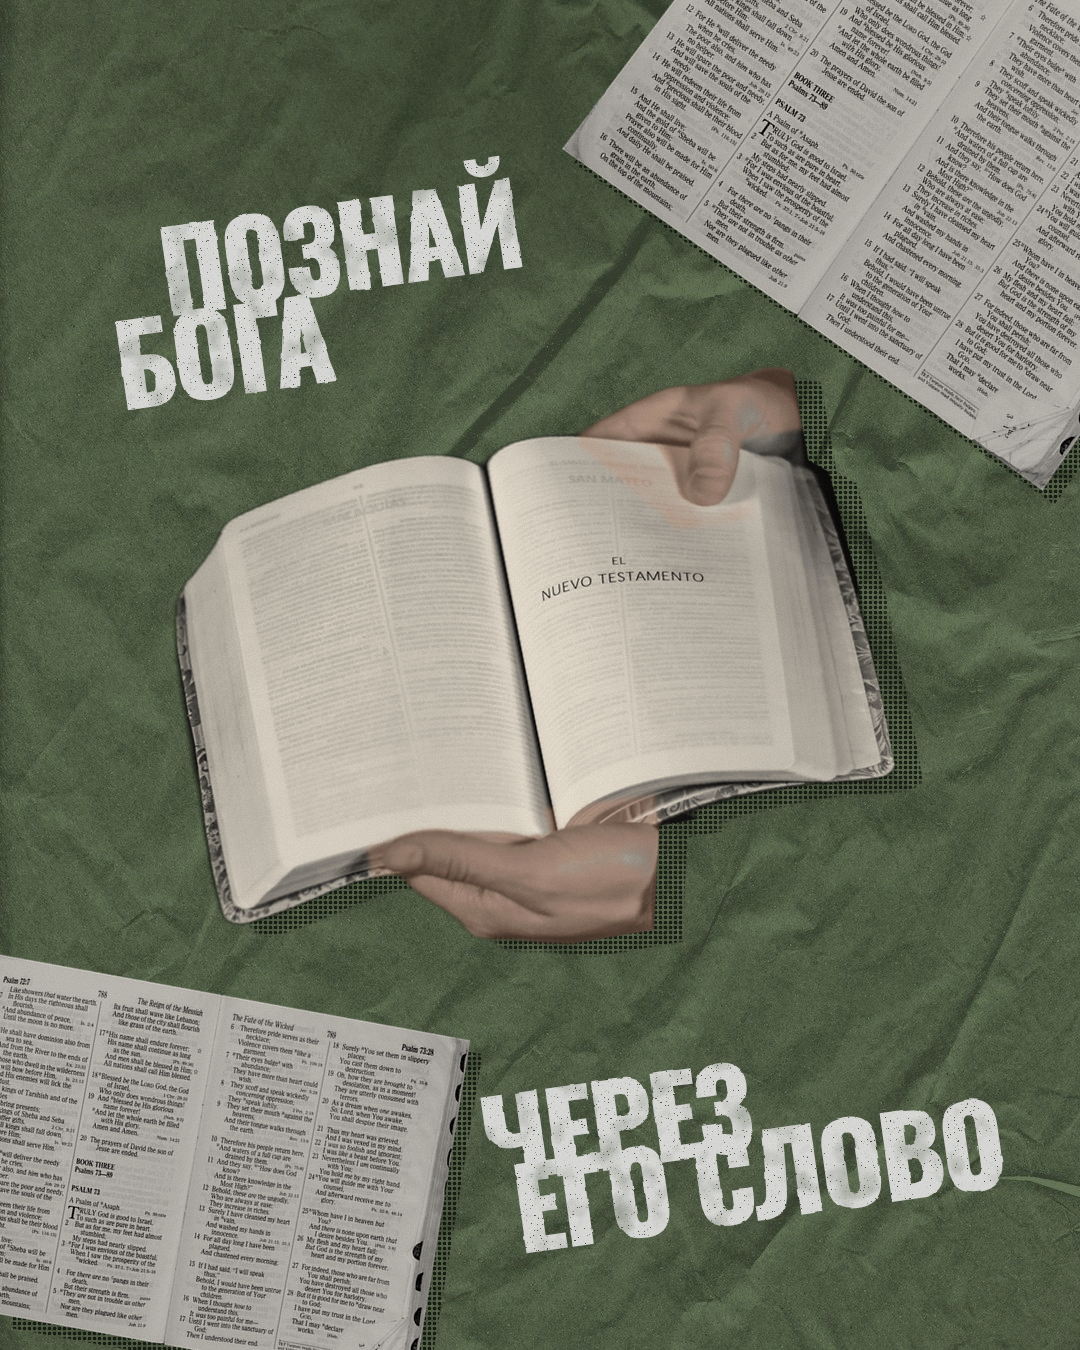
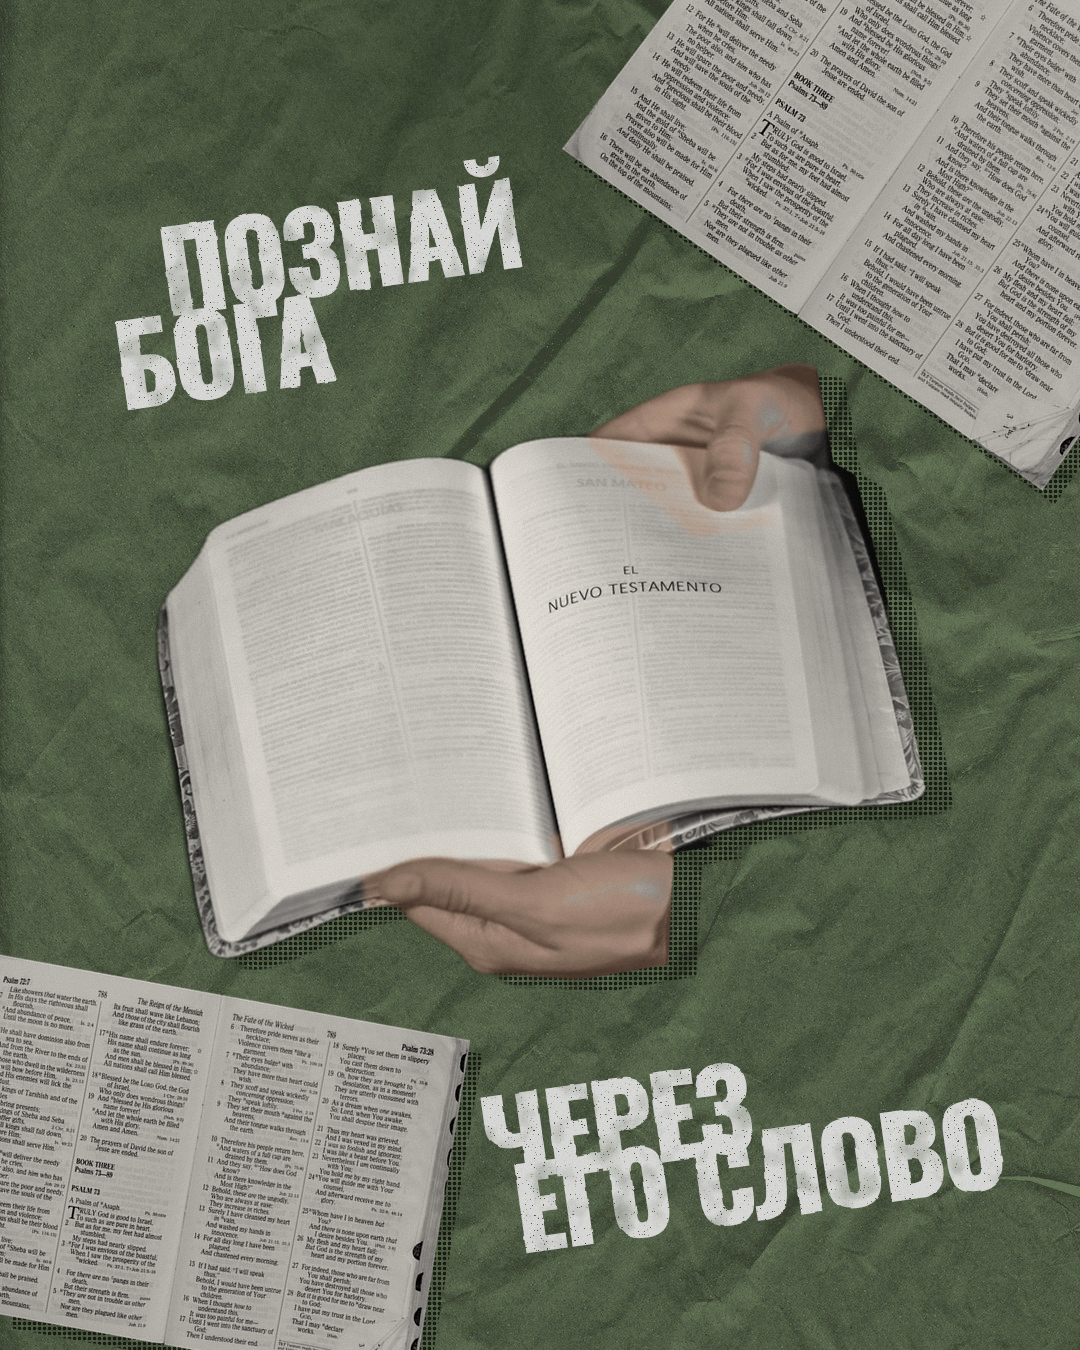
Близнецы, второй набор: черновики 014, 022, 028, 058 остановлены
Claude-Session: https://claude.ai/code/session_01QcpF8q36dATzwPnrN5PE56

diff --git a/projects/2026-10-18-twins-2/twin-022.html b/projects/2026-10-18-twins-2/twin-022.html
@@ -1,0 +1,215 @@
+<!doctype html>
+<html lang="ru">
+<head>
+<meta charset="utf-8">
+<meta name="size" content="1080x1920">
+<title>Близнец референса 022 — молодёжь</title>
+<link rel="stylesheet" href="/brand/brand.css">
+<link rel="stylesheet" href="/projects/2026-10-18-twins/twin.css">
+<style>
+  /* Референс 022 (675×1200, ×1,6): жёлтая бумага #E2D537 с крапом, оранжевый ожог по левому краю, светлый сгиб на 25 %.
+     Вверху слева — три строки геометрического гротеска, наклон −3°, прописные 1,6 %, x 13,6 %, верх 12,2 %;
+     ключевые слова на розовых плашках #E82695. Вверху справа — адрес светлым начертанием, правый край 92,3 %.
+     В центре — слово узким сверхжирным гротеском фиолетовым #5B2FE0 четыре раза: прописные 10,6 %, шаг 11,8 %,
+     ширина 65 % (x 17,5–82,5 %), верх 29,2 %. Поверх строк 1–3 — раскрытая Библия в руке (вырезка, x 22,5–84,5 %,
+     y 37,3–57,7 %), поверх строк 3–4 — розовая рваная наклейка (x 26–75 %, y 55,5–66 %) с белым текстом и фиолетовым
+     штрихом у первой буквы. Белые каракули: под текстом вверху слева, звезда справа, штрихи справа внизу, слева внизу.
+     Внизу по центру — логотип: четырёхлучевая звезда и брусковая антиква (y 86,3–90,8 %).
+     Отступления ради безопасных зон сторис: верхний текст опущен до 262 px, центр поднят на 40 px, логотип поднят
+     с 1656 до 1490 px. Кириллица: «МОЛОДЁЖЬ» вдвое шире «JÓVENES» при той же высоте — строки шире (84 %) и ниже (прописные 9,2 %). */
+  body, .canvas { background: #e2d537; color: #141414; }
+  .paper { position: absolute; inset: 0; background:
+           radial-gradient(130% 70% at 50% 45%, rgba(255,250,170,.18), rgba(255,250,170,0) 60%),
+           linear-gradient(90deg, rgba(236,96,30,.85) 0, rgba(240,150,40,.45) 14px, rgba(240,170,50,0) 46px),
+           linear-gradient(270deg, rgba(236,120,30,.45) 0, rgba(240,170,50,0) 22px),
+           linear-gradient(180deg, rgba(236,140,40,.25) 0, rgba(240,170,50,0) 30px),
+           #e2d537; }
+  .fold { position: absolute; left: 0; right: 0; top: 486px; height: 6px; z-index: 1;
+          background: linear-gradient(180deg, rgba(255,255,230,0), rgba(255,255,230,.35) 45%, rgba(170,150,20,.18) 70%, rgba(170,150,20,0)); }
+  svg.tex, svg.scrib { position: absolute; inset: 0; pointer-events: none; }
+  svg.tex { z-index: 1; }
+  svg.scrib { z-index: 9; }
+
+  .top { position: absolute; left: 147px; top: 262px; z-index: 6; transform: rotate(-3deg); transform-origin: 0 0; }
+  .top div { position: absolute; left: 0; white-space: nowrap; text-transform: uppercase; font: 800 43px/1 'Montserrat'; }
+  .top .m { font-weight: 500; }
+  .top b { font: inherit; background: #e82695; padding: 0 6px; margin-left: -2px; }
+  .addr { position: absolute; right: 83px; z-index: 6; text-align: right; white-space: nowrap; text-transform: uppercase;
+          font: 400 31px/1 'Montserrat'; letter-spacing: .01em; }
+
+  .word { position: absolute; left: 0; width: max-content; z-index: 3; white-space: nowrap;
+          font: 900 200px/1 'Fira Sans Extra Condensed'; letter-spacing: -.005em; color: #5b2fe0; text-transform: uppercase; }
+  .bible { position: absolute; left: 231px; top: 702px; width: 692px; z-index: 5;
+           filter: drop-shadow(0 6px 10px rgba(60,40,0,.22)); }
+
+  .sticker { position: absolute; left: 276px; top: 1018px; width: 528px; height: 204px; z-index: 7; transform: rotate(-1.5deg); }
+  .sticker svg { position: absolute; inset: 0; overflow: visible; }
+  .sticker .txt { position: absolute; left: 0; width: max-content; white-space: nowrap; color: #fff;
+                  font: 900 120px/1 'Fira Sans Extra Condensed'; text-transform: uppercase; letter-spacing: .005em; }
+  .slash { position: absolute; left: 302px; top: 1131px; width: 60px; height: 52px; z-index: 8; background: #5b2fe0;
+           clip-path: polygon(38% 0, 100% 0, 62% 100%, 0 100%); }
+
+  .logo { position: absolute; z-index: 6; display: flex; align-items: center; gap: 12px; }
+  .logo svg { flex: none; }
+  .logo .l1 { font: 900 60px/1 'Bitter'; text-transform: uppercase; color: #141414; }
+  .logo .l2 { font: 900 30px/1 'Bitter'; text-transform: uppercase; color: #141414; margin-top: 6px; }
+</style>
+</head>
+<body>
+<main class="canvas grain-light">
+  <div class="paper"></div>
+  <svg class="tex" width="1080" height="1920" viewBox="0 0 1080 1920">
+    <defs>
+      <filter id="mott" x="0" y="0" width="100%" height="100%">
+        <feTurbulence type="fractalNoise" baseFrequency=".006" numOctaves="3" seed="5"/>
+        <feColorMatrix values="0 0 0 0 .6  0 0 0 0 .55  0 0 0 0 .1  0 0 0 -1.6 1.0"/>
+      </filter>
+      <filter id="dust" x="0" y="0" width="100%" height="100%">
+        <feTurbulence type="fractalNoise" baseFrequency=".75" numOctaves="2" seed="9"/>
+        <feColorMatrix values="0 0 0 0 1  0 0 0 0 1  0 0 0 0 .95  0 0 0 -11 6.9"/>
+      </filter>
+    </defs>
+    <rect width="1080" height="1920" filter="url(#mott)" opacity=".18" style="mix-blend-mode: multiply"/>
+    <rect width="1080" height="1920" filter="url(#dust)" opacity=".3"/>
+  </svg>
+  <div class="fold"></div>
+
+  <div class="top" id="top">
+    <div id="t1">Сердце, что</div>
+    <div id="t2" class="m">не <b>перестаёт</b></div>
+    <div id="t3"><b>поклоняться</b></div>
+  </div>
+  <div class="addr" id="ad1" data-placeholder>Улица Примерная, 123</div>
+  <div class="addr" id="ad2" data-placeholder>Ваш город</div>
+
+  <div class="word" id="w1">Молодёжь</div>
+  <div class="word" id="w2">Молодёжь</div>
+  <div class="word" id="w3">Молодёжь</div>
+  <div class="word" id="w4">Молодёжь</div>
+
+  <img class="bible" src="assets/022-bible.png" alt="Раскрытая Библия в руке">
+
+  <div class="sticker">
+    <svg id="stk" width="528" height="204" viewBox="0 0 528 204"></svg>
+    <div class="txt" id="stxt1">Молодёжное</div>
+    <div class="txt" id="stxt2">служение</div>
+  </div>
+  <div class="slash"></div>
+
+  <div class="logo" id="logo" data-placeholder>
+    <svg width="86" height="86" viewBox="-50 -50 100 100"><path d="M0,-50 C5,-12 12,-5 50,0 C12,5 5,12 0,50 C-5,12 -12,5 -50,0 C-12,-5 -5,-12 0,-50Z" fill="#141414"/></svg>
+    <div><div class="l1" id="lg1">Логотип</div><div class="l2" id="lg2">вашей церкви</div></div>
+  </div>
+
+  <svg class="scrib" id="scrib" width="1080" height="1920" viewBox="0 0 1080 1920"></svg>
+</main>
+<script src="/projects/2026-10-18-twins/twin.js"></script>
+<script>
+  function capRatio(font) {
+    const c = document.createElement('canvas').getContext('2d');
+    c.font = font;
+    const m = c.measureText('Н');
+    return { cap: m.actualBoundingBoxAscent, asc: m.fontBoundingBoxAscent, desc: m.fontBoundingBoxDescent };
+  }
+  // Верх прописных строки — на capTop (line-height: 1).
+  function capTopAt(el, capTop) {
+    const cs = getComputedStyle(el);
+    const size = parseFloat(cs.fontSize);
+    const m = capRatio(`${cs.fontWeight} ${size}px ${cs.fontFamily}`);
+    const half = (size - (m.asc + m.desc)) / 2;
+    el.style.top = `${capTop - (half + m.asc - m.cap)}px`;
+    return m.cap;
+  }
+  function setCap(el, cap) {
+    const cs = getComputedStyle(el);
+    const r = capRatio(`${cs.fontWeight} 200px ${cs.fontFamily}`).cap / 200;
+    el.style.fontSize = `${cap / r}px`;
+  }
+
+  afterFonts(["900 100px 'Fira Sans Extra Condensed'", "800 40px 'Montserrat'", "500 40px 'Montserrat'",
+              "400 30px 'Montserrat'", "900 60px 'Bitter'"], () => {
+    // Слово ×4. «МОЛОДЁЖЬ» при высоте референса вдвое шире «JÓVENES»: ширина строки 84 % (не 65 %) и растяжение
+    // по высоте ×1,28 — прописные 177 px вместо 204, зазор между строками 0,118 высоты, как в референсе.
+    ['w1', 'w2', 'w3', 'w4'].forEach((id, i) => {
+      const el = document.getElementById(id);
+      fitWidth(el, 908);
+      const size = parseFloat(el.style.fontSize);
+      const m = capRatio(`900 ${size}px 'Fira Sans Extra Condensed'`);
+      const k = 1.28, capOff = (size - (m.asc + m.desc)) / 2 + m.asc - m.cap;
+      el.style.transformOrigin = `0 ${capOff}px`;
+      el.style.transform = `scaleY(${k})`;
+      el.style.left = `${(1080 - el.getBoundingClientRect().width) / 2}px`;
+      el.style.top = `${578 + i * 198 - capOff}px`;
+    });
+
+    // Верхний текст: прописные 30 px, шаг 47 px; вторая строка с отступом, как в референсе.
+    [['t1', 0, 0], ['t2', 47, 30], ['t3', 94, 6]].forEach(([id, y, x]) => {
+      const el = document.getElementById(id);
+      setCap(el, 30);
+      capTopAt(el, y);
+      el.style.left = `${x}px`;
+    });
+    document.querySelectorAll('.top b').forEach((b) => { b.style.paddingTop = '4px'; b.style.paddingBottom = '3px'; });
+
+    // Адрес: прописные 22 px, правый край 997 px.
+    [['ad1', 262], ['ad2', 299]].forEach(([id, y]) => { const el = document.getElementById(id); setCap(el, 22); capTopAt(el, y); });
+
+    // Наклейка: рваный розовый край, текст на всю ширину.
+    const stk = document.getElementById('stk');
+    svgEl(stk, 'path', { d: tornRect(4, 10, 520, 186, rng(22), 7, 22), fill: '#e82695' });
+    // Две строки (по-русски в одну строку буквы вышли бы вдвое ниже, чем в референсе): обе одной высоты,
+    // по ширине — длинная 468 px, растяжение ×1,28; вместе занимают ~76 % высоты наклейки, как «SERVICIO DE».
+    const s1 = document.getElementById('stxt1'), s2 = document.getElementById('stxt2');
+    fitWidth(s1, 468);
+    s2.style.fontSize = s1.style.fontSize;
+    const ssz = parseFloat(s1.style.fontSize);
+    const sm = capRatio(`900 ${ssz}px 'Fira Sans Extra Condensed'`);
+    const sk = 1.28, sOff = (ssz - (sm.asc + sm.desc)) / 2 + sm.asc - sm.cap, sCap = sm.cap * sk, sGap = 14;
+    const sTop = (204 - (2 * sCap + sGap)) / 2;
+    [s1, s2].forEach((el, i) => {
+      el.style.transformOrigin = `0 ${sOff}px`;
+      el.style.transform = `scaleY(${sk})`;
+      el.style.left = `${(528 - el.getBoundingClientRect().width) / 2}px`;
+      el.style.top = `${sTop + i * (sCap + sGap) - sOff}px`;
+    });
+
+    // Логотип по центру, низ — над безопасной зоной.
+    const lg2 = document.getElementById('lg2');
+    fitWidth(lg2, document.getElementById('lg1').getBoundingClientRect().width);
+    const logo = document.getElementById('logo');
+    const lr = logo.getBoundingClientRect();
+    logo.style.left = `${(1080 - lr.width) / 2}px`;
+    logo.style.top = `${1576 - lr.height}px`;
+
+    // Каракули белым маркером.
+    const sc = document.getElementById('scrib');
+    const R = rng(7);
+    const line = (pts, w = 3, o = .9) => svgEl(sc, 'path', { d: smoothOpen(pts), fill: 'none', stroke: '#fbfbf2',
+      'stroke-width': w, 'stroke-linecap': 'round', 'stroke-linejoin': 'round', opacity: o });
+    const jit = (pts, a = 4) => pts.map(([x, y]) => [x + (R() - .5) * a, y + (R() - .5) * a]);
+    // под верхним текстом: длинные петли влево-вниз
+    line(jit([[520, 412], [380, 418], [230, 426], [90, 436], [40, 446], [70, 452], [210, 448], [380, 440], [470, 438]]), 3.2);
+    line(jit([[430, 452], [300, 470], [160, 492], [70, 516], [110, 524], [240, 508], [330, 492]]), 2.4, .8);
+    line(jit([[150, 520], [120, 560], [140, 600], [190, 590], [170, 548], [120, 552], [100, 590]]), 2.4, .8);
+    line(jit([[40, 360], [60, 380], [50, 410], [30, 440]]), 2, .7);
+    // звезда справа от верхней строки
+    const star = [];
+    for (let k = 0; k <= 11; k++) {
+      const a = -Math.PI / 2 + k * Math.PI * 4 / 5 + (R() - .5) * .12;
+      star.push([906 + 48 * Math.cos(a), 498 + 52 * Math.sin(a)]);
+    }
+    line(star, 2.8);
+    line(jit([[870, 560], [930, 548], [978, 566]]), 2.2, .8);
+    // штрихи справа внизу у последней строки
+    line(jit([[742, 1428], [820, 1404], [900, 1386], [960, 1372]]), 2.6);
+    line(jit([[760, 1460], [850, 1420], [930, 1398], [948, 1430], [880, 1446], [800, 1470]]), 2.2, .85);
+    line(jit([[800, 1368], [850, 1410], [900, 1448], [940, 1470]]), 2.2, .85);
+    line(jit([[880, 1350], [868, 1400], [890, 1446]]), 2, .8);
+    // слева внизу — крупные петли
+    line(jit([[0, 1620], [60, 1660], [110, 1720], [70, 1760], [20, 1730], [60, 1690], [150, 1700], [180, 1780], [120, 1860], [60, 1920]], 8), 4, .95);
+    line(jit([[0, 1760], [50, 1800], [90, 1860], [70, 1920]], 6), 3, .9);
+    line(jit([[30, 1600], [80, 1650], [140, 1700], [190, 1760]], 6), 2.4, .8);
+  });
+</script>
+</body>
+</html>

diff --git a/projects/2026-10-18-twins-2/twin-058.html b/projects/2026-10-18-twins-2/twin-058.html
@@ -29,7 +29,7 @@
       linear-gradient(180deg, #231f14 0%, #1f1c13 45%, #1a1813 100%); }
   /* Кулаки: вырезка с тёплой приглушённой обработкой, как плёнка в референсе. */
   .fists { position: absolute; left: 0; top: 0; width: 1080px; height: 1350px; z-index: 2;
-           filter: sepia(.32) saturate(.78) brightness(.84) contrast(1.06); }
+           filter: sepia(.12) saturate(.92) brightness(.95) contrast(1.06); }
   /* Края кадра темнее: руки уходят в тень, как рукава в референсе. */
   /* Низ по углам темнее: руки уходят в тень, как рукава в референсе. */
   .vignette { position: absolute; inset: 0; z-index: 3; pointer-events: none;
@@ -61,9 +61,9 @@
   </svg>
 
   <div class="corner l" style="top: 245px;">Даже если<br>в разладе,</div>
-  <div class="corner r" style="top: 245px;">Семья всё же<br>важна.</div>
+  <div class="corner r" style="top: 245px;">Семья всё равно<br>важна.</div>
   <div class="corner l" style="top: 1069px;">Даже если<br>в разладе,</div>
-  <div class="corner r" style="top: 1069px;">Семья всё же<br>важна.</div>
+  <div class="corner r" style="top: 1069px;">Семья всё равно<br>важна.</div>
 </main>
 <script src="/projects/2026-10-18-twins/twin.js"></script>
 </body>

diff --git a/projects/2026-10-18-twins-2/twin-028.html b/projects/2026-10-18-twins-2/twin-028.html
@@ -46,8 +46,8 @@
   <img class="piece" src="assets/028-book-bl.png" alt="Раскрытая Библия" style="left: 0; top: 952px; width: 473px; height: 398px;">
 
   <!-- Руки держат раскрытую Библию. -->
-  <div class="ht" style="left: 193px; top: 375px; width: 732px; height: 584px; -webkit-mask-image: url(assets/028-hands.png); mask-image: url(assets/028-hands.png);"></div>
-  <img class="piece" src="assets/028-hands.png" alt="Руки держат раскрытую Библию" style="left: 165px; top: 363px; width: 732px; height: 584px;">
+  <div class="ht" style="left: 173px; top: 371px; width: 783px; height: 624px; -webkit-mask-image: url(assets/028-hands.png); mask-image: url(assets/028-hands.png);"></div>
+  <img class="piece" src="assets/028-hands.png" alt="Руки держат раскрытую Библию" style="left: 145px; top: 359px; width: 783px; height: 624px;">
 
   <svg class="type" viewBox="0 0 1080 1350" aria-label="Познай Бога через Его Слово">
     <defs>
